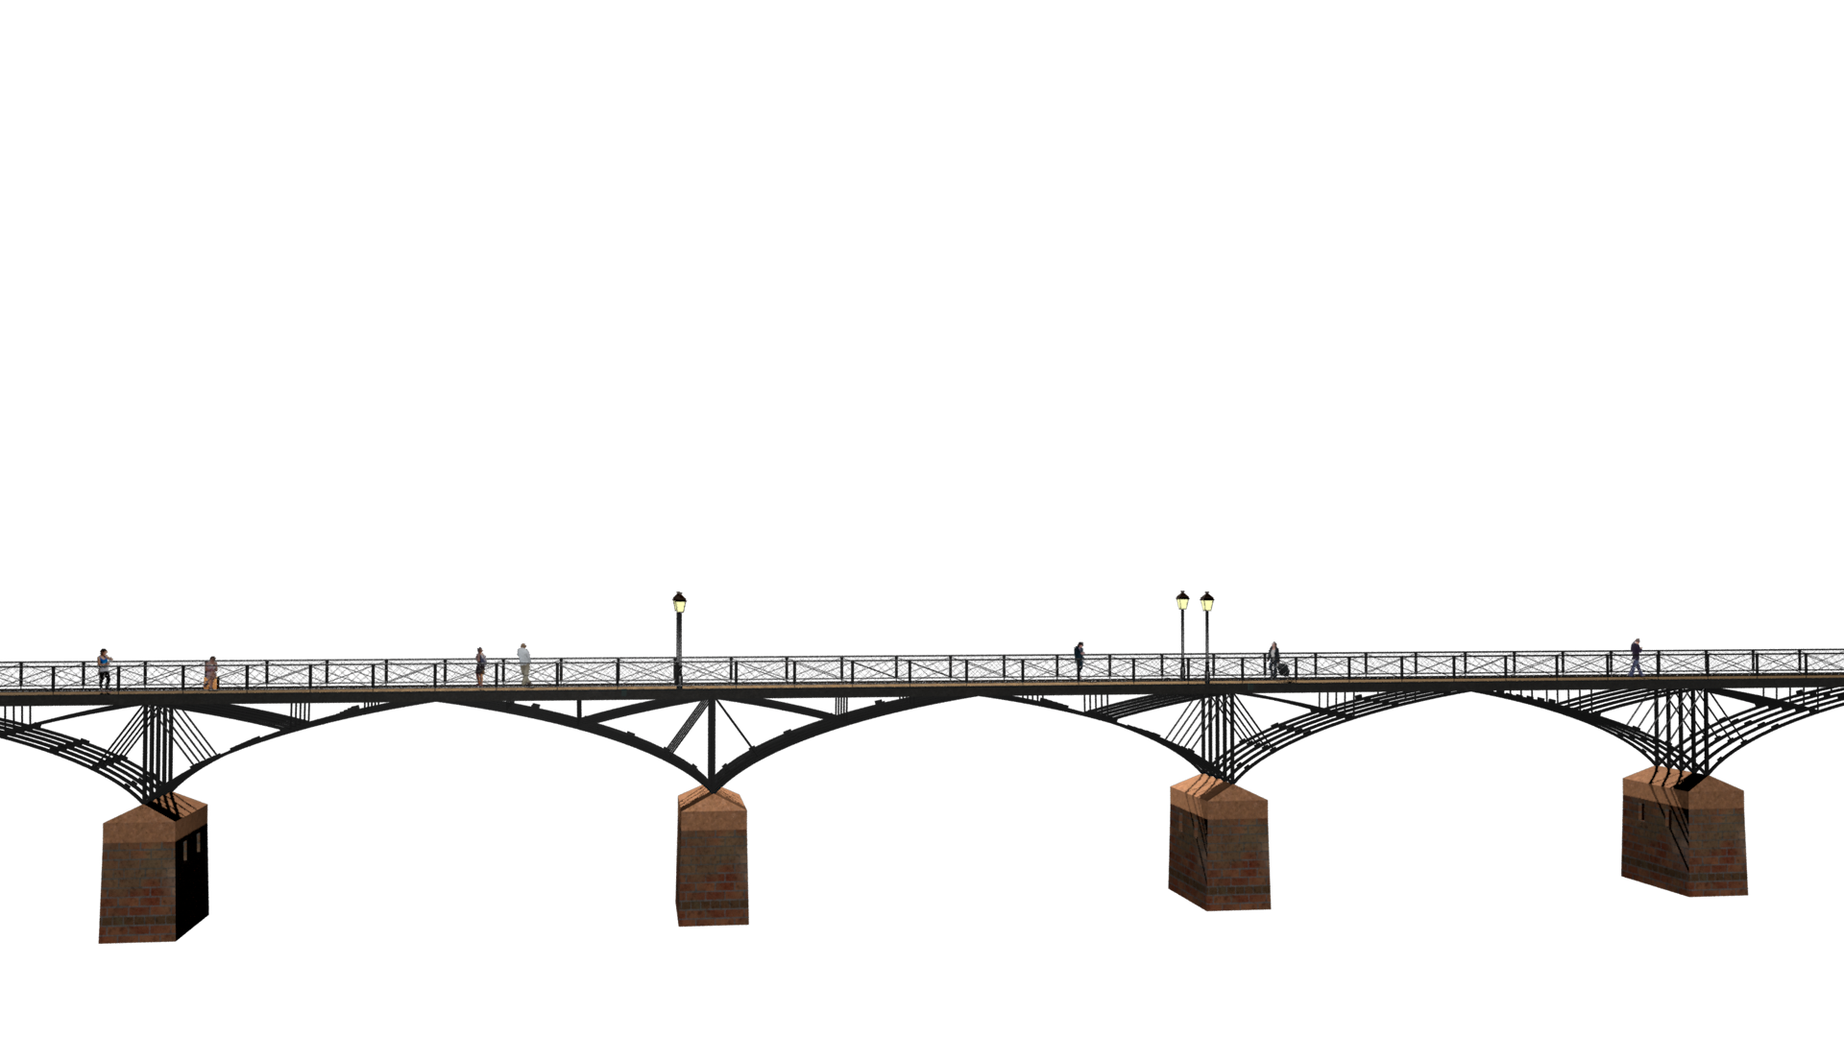
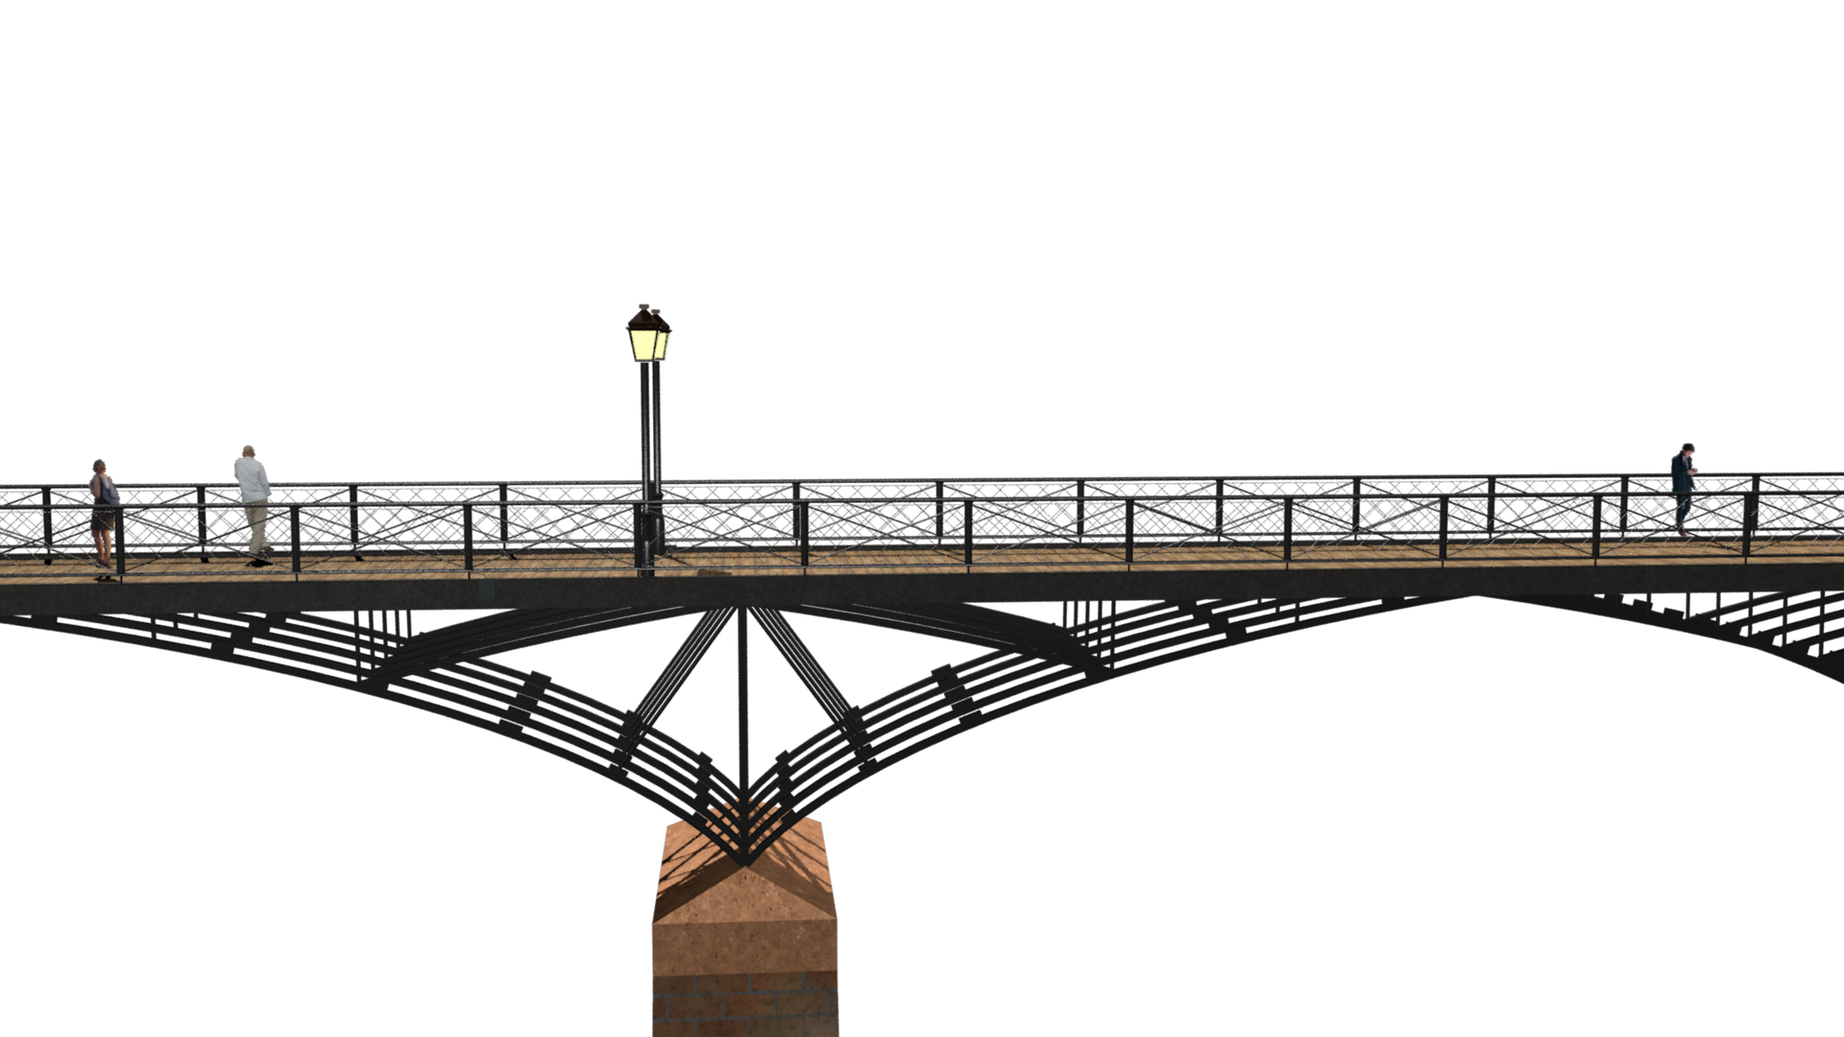
\-added bridge sections

Changed region(s): [[0.0, 0.275, 1.0, 1.0]]

diff --git a/binarbox/src/front/vendors/mapoid.min.js b/binarbox/src/front/vendors/mapoid.min.js
@@ -1,0 +1,1 @@
+!function(e,t,a,i){var n="mapoid";function s(t,a){this.elem=t,this.$elem=e(t),this.$elem_original=this.$elem,this.options=a,this.metadata=this.$elem.data(),this._init()}s.prototype={defaults:{width:600,strokeColor:"black",strokeWidth:1,fillColor:"black",fillOpacity:.5,fadeTime:500,selectedArea:!1,selectOnClick:!0,click:!1,dblclick:!1,mousedown:!1,mouseup:!1,mouseover:!1,mouseout:!1,mousemove:!1,mouseenter:!1,mouseleave:!1,hoverIn:!1,hoverOut:!1,select:!1,deselect:!1},lang:{textSelectAll:function(){return"Select all"}},_init:function(){this.config=e.extend({},this.defaults,this.options,this.metadata),this.map=this.$elem,this.selectedAreas=[];var i=this,n=i.$elem.attr("name");i.image=e(a).find("img[usemap='#"+n+"']");var s=e("<div class='wrp'></div>");return e("map[name="+n+"]").add("img[usemap='#"+n+"']").wrapAll(s),this.$elem=this.$elem.closest("div"),i.mapHidden=!i.mapIsVisible(),i._onImgLoad(i.image,function(a){i.image.attr("width",a.width),i.image.attr("height",a.height),i._loadMap(),i._initEvents(),e(t).resize(function(){i._reloadAreas()})}),this},_getRandomInt:function(e,t){return Math.floor(Math.random()*(t-e+1))+e},mapIsVisible:function(){return this.map.is(":visible")&&this.image.is(":visible")},_loadMap:function(){var e=this;e._getRandomInt(1,65e3),e._getRandomInt(1,100),e.image.attr("class");e.$elem.css({position:"relative"}),void 0!==e.image.attr("usemap")&&(e._redrawCoords(),e.config.selectedArea&&e._selectAreas(e.config.selectedArea))},_redrawCoords:function(){var t=this,a="coords",i=t.image.attr("width"),n=(t.image.attr("height"),t.image.width()/i*100);t.map.find("area").each(function(){var t=e(this);t.data(a)||t.data(a,t.attr(a));for(var i=t.data(a).split(","),s=new Array(i.length),l=0;l<s.length;++l)s[l]=i[l]*n/100;t.attr(a,s.toString())})},_eventCallback:function(e,t,a){var i=this;if(i.config[e]){var n=a.data("id");return"function"==typeof i.config[e]?i.config[e](t,a,n,i.selectedAreas):console.log(e+" nie je funkcia!"),!0}return!1},_reloadAreasIfHidden:function(){var e=this;e.mapHidden&&(e._reloadAreas(),e.mapHidden=!1)},_reloadAreas:function(){var t=this;if(t.$elem.find("canvas").remove(),!t.mapIsVisible())return t.mapHidden=!0,void console.log("mapa nie je vidiet");t._redrawCoords();t.$elem.find("area.selected").each(function(a,i){e(this).data("id");var n=e(this).hasClass("fixed");t._mapover(e(this),!0,n)})},_initEvents:function(){var t=this;t.map.on("mouseover","area",function(a){t._reloadAreasIfHidden(),t._eventCallback("mouseover",a,e(this)),t._mapover(e(this),!1,!1,!0)}),t.map.on("mouseout","area",function(a){t._eventCallback("mouseout",a,e(this)),t.$elem.find("canvas.temp").fadeOut(t.config.fadeTime)}),t.map.on("click","area",function(a){if(a.preventDefault(),t._eventCallback("click",a,e(this))||t.config.selectOnClick){if(t.config.selectOnClick){var i=parseInt(e(this).data("id")),n=t._inArray(t.selectedAreas,i),s=e(this).hasClass("fixed");n?t._deselectArea(i,!1):t._selectArea(i,s,!1)}}else{var l=e(this).attr("href");l&&(location.href=l)}return!1}),t.map.on("mousedown","area",function(a){t._eventCallback("mousedown",a,e(this))}),t.map.on("mouseup","area",function(a){t._eventCallback("mouseup",a,e(this))}),t.map.on("dblclick","area",function(a){t._eventCallback("dblclick",a,e(this))}),t.map.on("mousemove","area",function(a){t._eventCallback("mousemove",a,e(this))}),t.map.on("mouseenter","area",function(a){t._eventCallback("mouseenter",a,e(this))}),t.map.on("mouseleave","area",function(a){t._eventCallback("mouseleave",a,e(this))}),t.map.find("area").hover(function(a){t._eventCallback("hoverIn",a,e(this))},function(a){t._eventCallback("hoverOut",a,e(this))})},_removeItem:function(e,t){for(var a=0;a<e.length;a++)if(e[a]===t){e.splice(a,1);break}},_inArray:function(e,t){for(var a=0;a<e.length;a++)if(e[a]===t)return!0;return!1},_onImgLoad:function(e,t){var a=new Image;a.src=!!e[0].getAttribute&&e[0].getAttribute("src")||e[0].src,a.onload=function(){t(a)}},_onMapLoaded:function(e){this.mapIsVisible()&&this._onImgLoad(this.image,function(t){e()})},_mapover:function(t,a,i,n){var s=this,l=parseInt(t.data("id"));isNaN(l)&&(l=s._getRandomInt(1,99999),t.data("id",l)),n&&s.$elem.find("canvas.temp").remove();var o=s.image,r=(o.data("bg_fill"),o.width()),c=o.height(),d=t.attr("shape"),f=e('<canvas data-id="'+l+'" width="'+r+'" height="'+c+'"></canvas>');o.parent().append(f),a?t.addClass("selected"):f.addClass("temp"),i&&t.addClass("fixed");s.$elem.find(".fill").css("background-color"),s.$elem.find(".fill").css("opacity");f.css({width:r+"px",height:c+"px",display:"block",position:"absolute",top:"0px",left:"0px","pointer-events":"none"});var h,m=f[0].getContext("2d"),u=t.attr("coords").split(","),v=[];h=[];for(var p=0;p<u.length;p++)p%2==0?v.push(u[p]):h.push(u[p]);var g=!0,_=t.data("img");s.image.attr("src");if(_&&"poly"==d)g=!1,s._onImgLoad(_,function(e){var t=Math.min.apply(null,v),a=Math.min.apply(null,h),i=Math.max.apply(null,v)-t,n=Math.max.apply(null,h)-a;m.drawImage(e,t,a,i,n),f.hide().fadeIn(s.config.fadeTime)});else{if(m.fillStyle=s.config.fillColor,m.lineWidth=s.config.strokeWidth,m.strokeStyle=s.config.strokeColor,m.globalAlpha=s.config.fillOpacity,"rect"==d)m.fillRect(v[0],h[0],v[1]-v[0],h[1]-h[0]),s.config.strokeWidth>0&&m.strokeRect(v[0],h[0],v[1]-v[0],h[1]-h[0]);else{if(m.beginPath(),"poly"==d){m.moveTo(v[0],h[0]);for(var A=1;A<v.length;A++)m.lineTo(v[A],h[A]);m.closePath()}else"circle"==d&&m.arc(v[0],h[0],v[1],0,2*Math.PI,!0);s.config.fillColor&&m.fill(),s.config.strokeWidth>0&&m.stroke()}g&&f.hide().fadeIn(s.config.fadeTime)}},_selectArea:function(e,t,a){var i=this;e=parseInt(e);var n=i.$elem.find("area[data-id='"+e+"']"),s=n.hasClass("selected"),l=i.$elem.find('canvas[data-id="'+e+'"]');if(i.mapIsVisible()?i._reloadAreasIfHidden():i.mapHidden=!0,s)return console.log("ID "+e+" je uz vybrane!"),!1;!0!==t&&(t=!1),n.length>0?(i.$elem.find('canvas[data-id="'+e+'"]:last').removeClass("temp"),n.addClass("selected"),l.removeClass("temp"),i.selectedAreas.push(e),a&&i._mapover(n,!0,t),i._eventCallback("select",!1,n)):console.log("Plocha s ID "+e+" na mape neexistuje!")},_deselectArea:function(e,t){var a=this;e=parseInt(e);var i=a.$elem.find("area[data-id='"+e+"']"),n=a.$elem.find('canvas[data-id="'+e+'"]'),s=i.hasClass("selected"),l=i.hasClass("fixed");if(!s||l)return!1;i.length>0?(n.addClass("temp"),(n.length>1||t)&&a.$elem.find('canvas[data-id="'+e+'"]:last').fadeOut(a.config.fadeTime),i.removeClass("selected"),a._removeItem(a.selectedAreas,e),a._eventCallback("deselect",!1,i)):console.log("Plocha s ID "+e+" na mape neexistuje!")},_selectAreas:function(e,t,a){var i=this,n=t,s=e.length;function l(e,l,o){setTimeout(function(){i._selectArea(l,o,!0),i._doCallback(e,s,t,a)},n),n+=t}for(var o=0;o<s;o++){var r=parseInt(e[o].id),c=!0===e[o].fixed;t?l(o,r,c):(i._selectArea(r,c,!0),i._doCallback(o,s,t,a))}},_doCallback:function(e,t,a,i){var n=this;e===t-1&&"function"==typeof i&&(a>0?setTimeout(function(){i(n.map,n.selectedAreas)},a):i(n.map,n.selectedAreas))},_deselectAreas:function(e,t,a){var i=this,n=t,s=e.length;function l(e,l){setTimeout(function(){i._deselectArea(l,!0),i._doCallback(e,s,t,a)},n),n+=t}for(var o=0;o<s;o++){var r=parseInt(e[o].id);t?l(o,r):(i._deselectArea(r,!0),i._doCallback(o,s,t,a))}},isSelected:function(e){return!!this._inArray(this.selectedAreas,e)},isFixed:function(e){return!!this.$elem.find("area[data-id='"+e+"']").hasClass("fixed")},getSelected:function(){return this.selectedAreas},getAll:function(){var t=[];return this.$elem.find("area").each(function(a,i){var n=e(this),s=parseInt(n.data("id"));t.push({id:s})}),t},selectOne:function(e,t){var a=this;a._onMapLoaded(function(){a._selectArea(e,t,!0)})},selectAll:function(e,t){var a=this.getAll();this.selectMany(a,e,t)},deselectAll:function(e,t){var a=this.getAll();this.deselect(a,e,t)},selectMany:function(e,t,a){var i=this;i._onMapLoaded(function(){i._selectAreas(e,t,a)})},deselect:function(e,t,a){this._deselectAreas(e,t,a)},removeFixed:function(e){for(var t=0;t<e.length;t++){var a=parseInt(e[t].id),i=this.$elem.find("area[data-id='"+a+"']");this.$elem.find('canvas[data-id="'+a+'"]').remove(),i.removeClass("selected").removeClass("fixed"),this._removeItem(this.selectedAreas,a)}},changeConfig:function(e,t){this.config[e]=t}},e.fn[n]=function(t){var a,l=arguments;return t===i||"object"==typeof t?this.each(function(){e.data(this,"plugin_"+n)||e.data(this,"plugin_"+n,new s(this,t))}):"string"==typeof t&&"_"!==t[0]&&"init"!==t?(this.each(function(){var i=e.data(this,"plugin_"+n);i instanceof s&&"function"==typeof i[t]&&(a=i[t].apply(i,Array.prototype.slice.call(l,1))),"destroy"===t&&e.data(this,"plugin_"+n,null)}),a!==i?a:this):void 0}}(jQuery,window,document);

diff --git a/binarbox/src/front/vendors/jquery.maphilight.min.js b/binarbox/src/front/vendors/jquery.maphilight.min.js
@@ -1,0 +1,2 @@
+/*! maphilight 28-02-2018 */
+!function(a,b){"function"==typeof define&&define.amd?define(["jquery"],b):b(a.jQuery)}(this,function(a){var b,c,d,e,f,g,h,j,k,l,m;if(c=!!document.createElement("canvas").getContext,b=function(){var a=document.createElement("div");a.innerHTML='<v:shape id="vml_flag1" adj="1" />';var b=a.firstChild;return b.style.behavior="url(#default#VML)",b?"object"==typeof b.adj:!0}(),!c&&!b)return void(a.fn.maphilight=function(){return this});if(c){j=function(a){return Math.max(0,Math.min(parseInt(a,16),255))},k=function(a,b){return"rgba("+j(a.substr(0,2))+","+j(a.substr(2,2))+","+j(a.substr(4,2))+","+b+")"},d=function(b){var c=a('<canvas style="width:'+a(b).width()+"px;height:"+a(b).height()+'px;"></canvas>').get(0);return c.getContext("2d").clearRect(0,0,a(b).width(),a(b).height()),c};var n=function(a,b,c,d,e){if(d=d||0,e=e||0,a.beginPath(),"rect"==b)a.rect(c[0]+d,c[1]+e,c[2]-c[0],c[3]-c[1]);else if("poly"==b)for(a.moveTo(c[0]+d,c[1]+e),i=2;i<c.length;i+=2)a.lineTo(c[i]+d,c[i+1]+e);else"circ"==b&&a.arc(c[0]+d,c[1]+e,c[2],0,2*Math.PI,!1);a.closePath()};e=function(b,c,d,e,f){var g=b.getContext("2d");if(e.shadow){g.save(),"inside"==e.shadowPosition&&(n(g,c,d),g.clip());var h=100*b.width,i=100*b.height;n(g,c,d,h,i),g.shadowOffsetX=e.shadowX-h,g.shadowOffsetY=e.shadowY-i,g.shadowBlur=e.shadowRadius,g.shadowColor=k(e.shadowColor,e.shadowOpacity);var j=e.shadowFrom;j||(j="outside"==e.shadowPosition?"fill":"stroke"),"stroke"==j?(g.strokeStyle="rgba(0,0,0,1)",g.stroke()):"fill"==j&&(g.fillStyle="rgba(0,0,0,1)",g.fill()),g.restore(),"outside"==e.shadowPosition&&(g.save(),n(g,c,d),g.globalCompositeOperation="destination-out",g.fillStyle="rgba(0,0,0,1);",g.fill(),g.restore())}g.save(),n(g,c,d),e.fill&&(g.fillStyle=k(e.fillColor,e.fillOpacity),g.fill()),e.stroke&&(g.strokeStyle=k(e.strokeColor,e.strokeOpacity),g.lineWidth=e.strokeWidth,g.stroke()),g.restore(),e.fade&&a(b).css("opacity",0).animate({opacity:1},100)},f=function(a){a.getContext("2d").clearRect(0,0,a.width,a.height)}}else d=function(b){return a('<var style="zoom:1;overflow:hidden;display:block;width:'+b.width+"px;height:"+b.height+'px;"></var>').get(0)},e=function(b,c,d,e,f){var g,h,i,j;for(var k in d)d[k]=parseInt(d[k],10);g='<v:fill color="#'+e.fillColor+'" opacity="'+(e.fill?e.fillOpacity:0)+'" />',h=e.stroke?'strokeweight="'+e.strokeWidth+'" stroked="t" strokecolor="#'+e.strokeColor+'"':'stroked="f"',i='<v:stroke opacity="'+e.strokeOpacity+'"/>',"rect"==c?j=a('<v:rect name="'+f+'" filled="t" '+h+' style="zoom:1;margin:0;padding:0;display:block;position:absolute;left:'+d[0]+"px;top:"+d[1]+"px;width:"+(d[2]-d[0])+"px;height:"+(d[3]-d[1])+'px;"></v:rect>'):"poly"==c?j=a('<v:shape name="'+f+'" filled="t" '+h+' coordorigin="0,0" coordsize="'+b.width+","+b.height+'" path="m '+d[0]+","+d[1]+" l "+d.join(",")+' x e" style="zoom:1;margin:0;padding:0;display:block;position:absolute;top:0px;left:0px;width:'+b.width+"px;height:"+b.height+'px;"></v:shape>'):"circ"==c&&(j=a('<v:oval name="'+f+'" filled="t" '+h+' style="zoom:1;margin:0;padding:0;display:block;position:absolute;left:'+(d[0]-d[2])+"px;top:"+(d[1]-d[2])+"px;width:"+2*d[2]+"px;height:"+2*d[2]+'px;"></v:oval>')),j.get(0).innerHTML=g+i,a(b).append(j)},f=function(b){var c=a("<div>"+b.innerHTML+"</div>");c.children("[name=highlighted]").remove(),b.innerHTML=c.html()};g=function(a){var b,c=a.getAttribute("coords").split(",");for(b=0;b<c.length;b++)c[b]=parseFloat(c[b]);return[a.getAttribute("shape").toLowerCase().substr(0,4),c]},m=function(b,c){var d=a(b);return a.extend({},c,a.metadata?d.metadata():!1,d.data("maphilight"))},l=function(a){return a.complete?"undefined"!=typeof a.naturalWidth&&0===a.naturalWidth?!1:!0:!1},h={position:"absolute",left:0,top:0,padding:0,border:0};var o=!1;a.fn.maphilight=function(i){return i=a.extend({},a.fn.maphilight.defaults,i),c||o||(a(window).ready(function(){document.namespaces.add("v","urn:schemas-microsoft-com:vml");var b=document.createStyleSheet(),c=["shape","rect","oval","circ","fill","stroke","imagedata","group","textbox"];a.each(c,function(){b.addRule("v\\:"+this,"behavior: url(#default#VML); antialias:true")})}),o=!0),this.each(function(){var j,k,n,o,p,q,r;if(j=a(this),!l(this))return window.setTimeout(function(){j.maphilight(i)},200);if(n=a.extend({},i,a.metadata?j.metadata():!1,j.data("maphilight")),r=j.get(0).getAttribute("usemap"),r&&(o=a('map[name="'+r.substr(1)+'"]'),j.is('img,input[type="image"]')&&r&&o.length>0)){if(j.hasClass("maphilighted")){var s=j.parent();j.insertBefore(s),s.remove(),a(o).unbind(".maphilight")}k=a("<div></div>").css({display:"block",backgroundImage:'url("'+this.src+'")',backgroundSize:"contain",position:"relative",padding:0,width:this.width,height:this.height}),n.wrapClass&&(n.wrapClass===!0?k.addClass(a(this).attr("class")):k.addClass(n.wrapClass)),j.before(k).css("opacity",1e-10).css(h).remove(),b&&j.css("filter","Alpha(opacity=0)"),k.append(j),p=d(this),a(p).css(h),p.height=this.height,p.width=this.width,a(o).bind("alwaysOn.maphilight",function(){q&&f(q),c||a(p).empty(),a(o).find("area[coords]").each(function(){var b,f;f=m(this,n),f.alwaysOn&&(!q&&c&&(q=d(j[0]),a(q).css(h),q.width=j[0].width,q.height=j[0].height,j.before(q)),f.fade=f.alwaysOnFade,b=g(this),c?e(q,b[0],b[1],f,""):e(p,b[0],b[1],f,""))})}).trigger("alwaysOn.maphilight").bind("mouseover.maphilight focusin.maphilight",function(b){var d,f,h=b.target;if(f=m(h,n),!f.neverOn&&!f.alwaysOn){if(d=g(h),e(p,d[0],d[1],f,"highlighted"),f.groupBy){var i;i=/^[a-zA-Z][\-a-zA-Z]+$/.test(f.groupBy)?o.find("area["+f.groupBy+'="'+a(h).attr(f.groupBy)+'"]'):o.find(f.groupBy);var j=h;i.each(function(){if(this!=j){var a=m(this,n);if(!a.neverOn&&!a.alwaysOn){var b=g(this);e(p,b[0],b[1],a,"highlighted")}}})}c||a(p).append("<v:rect></v:rect>")}}).bind("mouseout.maphilight focusout.maphilight",function(a){f(p)}),j.before(p),j.addClass("maphilighted")}})},a.fn.maphilight.defaults={fill:!0,fillColor:"000000",fillOpacity:.2,stroke:!0,strokeColor:"ff0000",strokeOpacity:1,strokeWidth:1,fade:!0,alwaysOn:!1,neverOn:!1,groupBy:!1,wrapClass:!0,shadow:!1,shadowX:0,shadowY:0,shadowRadius:6,shadowColor:"000000",shadowOpacity:.8,shadowPosition:"outside",shadowFrom:!1}});

diff --git a/binarbox/src/front/src/app/bridge/panels/panels.component.ts b/binarbox/src/front/src/app/bridge/panels/panels.component.ts
@@ -14,60 +14,84 @@ import { mouseWheelZoom } from 'mouse-wheel-zoom';
 export class PanelsComponent implements OnInit {
 
   private createdLock: any;
-  private stopScrolling: boolean = false;
-  private zoomEl: any;
+  private zoomCount: number = 0;
+  private currentImage = '../../../assets/images/bridge/pod0.png';
 
   constructor(
     private addLockService: AddLockService
   ) { }
 
   ngOnInit() {
-    // TO DO get peENALS FROM be
+    // TO DO get penals from BE
     this.createdLock = this.addLockService.createdLock;
-    console.log('created lock from service--', this.createdLock);
-    this.addZoomFunctionality();
-  }
-
-  addZoomFunctionality() {
-
-    // first solution
-    this.zoomEl = mouseWheelZoom({
-      element: document.querySelector('[data-wheel-zoom]'),
-      zoomStep: .5
-    });
-
-    // second solution
-    // this.zoomEl = mouseWheelZoom({
-    //   element: document.querySelector('[data-wheel-zoom]'),
-    //   zoomStep: 0
-    // });
   }
 
   onMousewheel(event) {
-    // first solution
+    // array from BE
+    let bridgeImgs = [
+      {
+        id: 0,
+        src: '../../../assets/images/bridge/pod0.png'
+      },
+      {
+        id: 1,
+        src: '../../../assets/images/bridge/pod1.png'
+      },
+      {
+        id: 2,
+        src: '../../../assets/images/bridge/pod2.png'
+      },
+      {
+        id: 3,
+        src: '../../../assets/images/bridge/pod3.png'
+      }
+    ]
 
-    if (event.target.clientHeight > 4800) {
-      this.stopScrolling = true;
-      this.zoomEl.reset();
+    if (event.deltaY < 0) {
+      if (this.zoomCount < 3) {
+        this.zoomCount = this.zoomCount + 1;
+      } else {
+        this.zoomCount = 3;
+      }
+    } else {
+      if (this.zoomCount <= 3 && this.zoomCount > 0) {
+        this.zoomCount = this.zoomCount - 1;
+      } else {
+        this.zoomCount = 0;
+      }
     }
+    this.currentImage = this.findBridgeImg(bridgeImgs, this.zoomCount);
 
-
-    //second solution
-    // let imgSrc = event.target.currentSrc;
-    // let srcCount = imgSrc.substring(imgSrc.lastIndexOf('d') + 1, imgSrc.lastIndexOf('.'));
-
-    // let newSrc;
-    // if (event.deltaY < 0) {
-    //  newSrc = '../../../assets/images/bridge/pod'.concat((parseInt(srcCount) + 1).toString(), '.png');
-    // } else {
-    //   newSrc = '../../../assets/images/bridge/pod'.concat((parseInt(srcCount) - 1).toString(), '.png');
-    // }
-
-    // this.zoomEl.setSrc(newSrc);
+    if (this.zoomCount === 3) {
+      console.log('image 3');
+      $("map[name=image-map]").imageMapResize();
+    }
   }
 
-  mouseEnter(event) {
-    console.log("hover on panel area", event);
+  findBridgeImg(images, count) {
+    let newImg = images.find((img) => {
+      return img.id === count;
+    });
+    return newImg.src;
   }
 
+  chooseSection(event) {
+    event.preventDefault();
+  }
+
+  mouseEnter() {
+    $("map[name=image-map]").mapoid( {
+      strokeColor: 'red',
+      strokeWidth: 1,
+      fillColor: 'yellow',
+      fillOpacity: 0.5,
+      fadeTime: 500,
+      selectedArea: false,
+      selectOnClick: true
+    });
+  }
+
+  mouseLeave() {
+    // console.log('mouse leave---');
+  }
 }

diff --git a/binarbox/src/front/src/app/bridge/panels/panels.component.html b/binarbox/src/front/src/app/bridge/panels/panels.component.html
@@ -1,20 +1,22 @@
-<!-- <div class="panels-container content-wrapper">
-  <h4>Choose the panel where you want to place your newly created lock.</h4>
-  <img class="panel-img" src="../../../assets/images/bridge2.JPG" alt="" usemap="#Map" />
-  <map name="Map" id="Map">
-      <area alt="" title="" id="panel1" class="panel-area" href="#" shape="poly" (mouseenter) ="mouseEnter($event)" coords="853,424,833,709,246,770,220,433" />
-      <area alt="" title="" id="panel2" class="panel-area" href="#" shape="poly" coords="897,423,1323,414,1287,645,888,702" />
-      <area alt="" title="" id="panel3" class="panel-area" href="#" shape="poly" coords="1362,408,1330,646,1595,613,1595,402" />
-  </map>
-</div> -->
 
 <section class="dorne-welcome-area bg-img bg-overlay panels-container">
-	<!-- <div class="container h-100"> -->
-    <!-- <img class="bridge-img" (onkeydown)="onMousewheel($event)" 
-    (wheel)="onMousewheel($event)" [ngClass]="{'stop-scroll': stopScrolling}" 
-    data-wheel-zoom src="../../../assets/images/bridge/pod0.png" alt=""/> -->
-    <img class="bridge-img" (onkeydown)="onMousewheel($event)" 
-    (wheel)="onMousewheel($event)" [ngClass]="{'stop-scroll': stopScrolling}" 
-    data-wheel-zoom src="../../../assets/images/bridge/pod31.png" alt=""/>
-	<!-- </div> -->
+    <!-- <img class="bridge-img" (wheel)="onMousewheel($event)" data-wheel-zoom src="../../../assets/images/bridge/pod0.png" alt="" usemap="#image-map"/> -->
+    <img class="bridge-img" (wheel)="onMousewheel($event)" [src]="currentImage" alt="" usemap="#image-map"/>
+
+    <map name="image-map" *ngIf="zoomCount === 3" (mouseenter) ="mouseEnter()">
+        <area target="" alt="1" title="1" href="" coords="123,281,294,405" shape="rect" (click)="chooseSection($event)" class="image-area">
+        <area target="" alt="2" title="2" href="" coords="295,283,465,406" shape="rect" (click)="chooseSection($event)" class="image-area">
+        <area target="" alt="3" title="3" href="" coords="126,406,294,522" shape="rect" (click)="chooseSection($event)" class="image-area">
+        <area target="" alt="4" title="4" href="" coords="295,409,464,523" shape="rect" (click)="chooseSection($event)" class="image-area">
+        <area target="" alt="5" title="5" href="" coords="475,282,641,404" shape="rect" (click)="chooseSection($event)" class="image-area">
+        <area target="" alt="6" title="6" href="" coords="642,281,808,404" shape="rect" (click)="chooseSection($event)" class="image-area">
+        <area target="" alt="7" title="7" href="" coords="475,404,642,521" shape="rect" (click)="chooseSection($event)" class="image-area">
+        <area target="" alt="8" title="8" href="" coords="643,405,808,521" shape="rect" (click)="chooseSection($event)" class="image-area">
+    </map>
 </section>
+
+<!-- <script type="text/javascript">
+    jQuery(function($) {
+        $('map').imageMapResize();
+    });
+</script> -->

diff --git a/binarbox/src/front/src/app/bridge/panels/panels.component.css b/binarbox/src/front/src/app/bridge/panels/panels.component.css
@@ -4,22 +4,17 @@
     overflow: hidden;
 }
 
-/* img:nth-child(2) {
-    max-height: 4800px !important;
-} */
-
 .bridge-img {
-    height: calc(100% - 120px);
-    width: auto;
-}
+    /* responsive */
 
-/* .stop-scroll {
-    pointer-events: none; 
-} */
-
-/* .ngxImageZoomFull {
     width: 100%;
     height: auto;
-    top: 0px;
-    left: 0px;
-} */
+    
+    /* width: auto;
+    height: 100%; */
+}
+
+.image-area:hover {
+    background-color: yellow;
+    opacity: 0.7;
+}

diff --git a/binarbox/src/front/src/typings.d.ts b/binarbox/src/front/src/typings.d.ts
@@ -3,3 +3,10 @@ declare var module: NodeModule;
 interface NodeModule {
   id: string;
 }
+
+
+interface JQuery {
+  maphilight(options?: any): any;
+  mapoid(options?: any): any;
+  imageMapResize(options?: any): any;
+}

diff --git a/binarbox/src/front/src/app/lock/lock.component.css b/binarbox/src/front/src/app/lock/lock.component.css
@@ -52,6 +52,3 @@
     margin: 0 auto;
 }
 
-.single-features-area {
-    background-color: transparent;
-}
